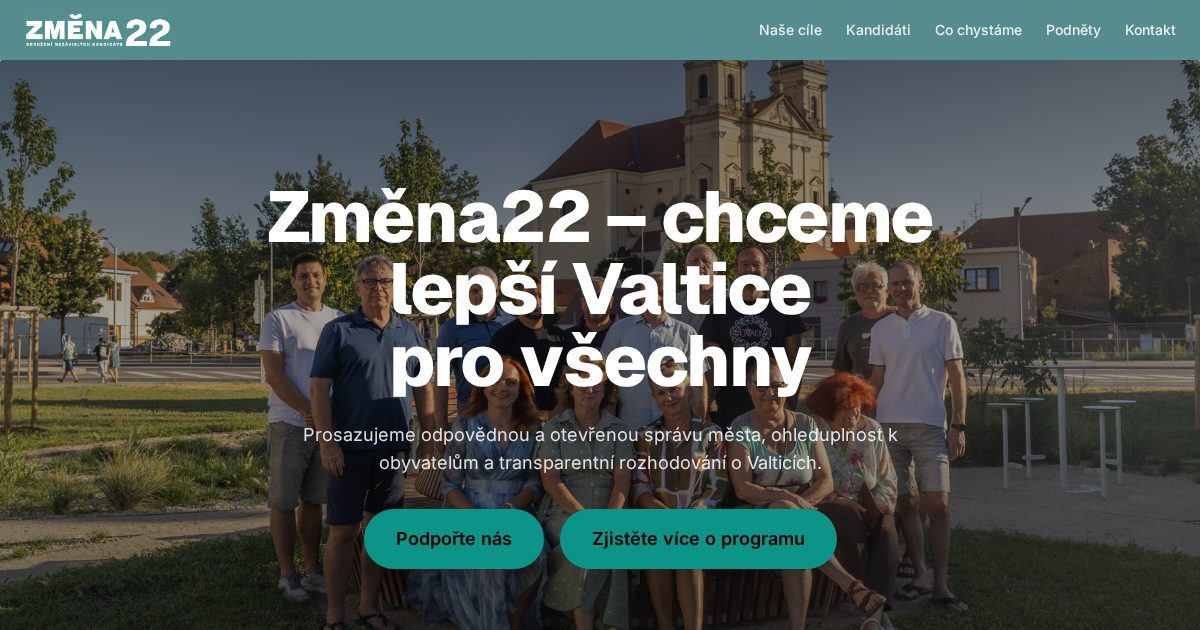
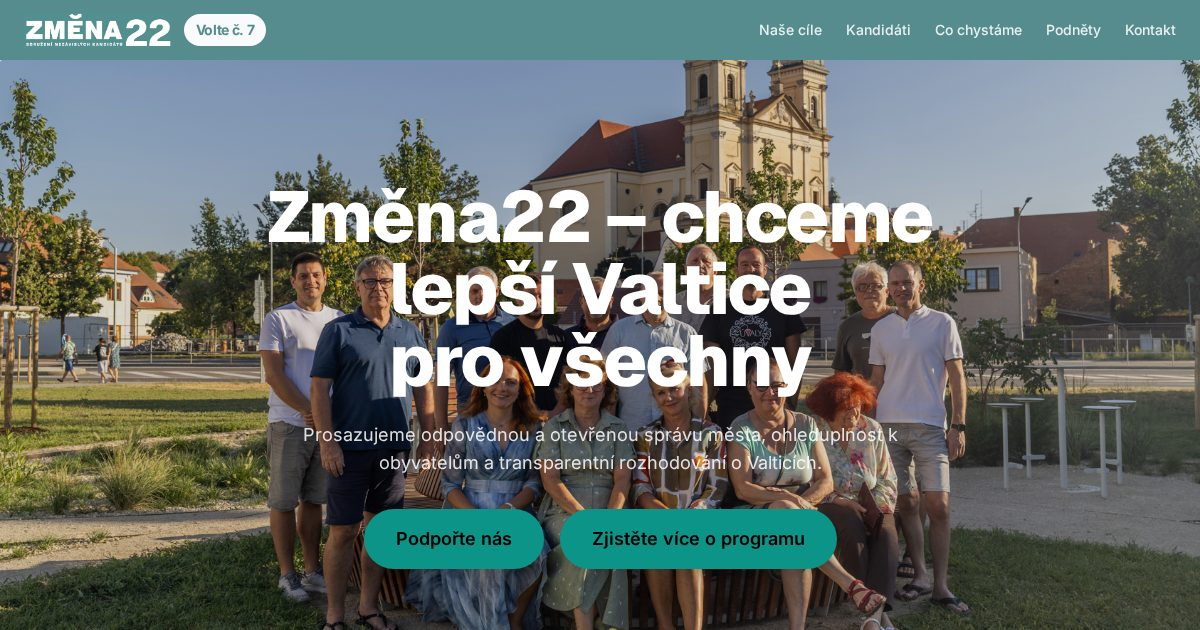
Deploy website: Změna22 Valtice

diff --git a/index.html b/index.html
@@ -8,10 +8,14 @@
     <meta property="og:description" content="Vytvoř webovou stránku pro kampaň Změna22 ve Valticích. Web má obsahovat: 1) úvodní hero sekci se společnou stock fotografií týmu jako dočasným zástupným obrázkem, hlavním textem a výzvou; 2) sekci „Naše cíle / program“ s hlavními prioritami a plánovanými změnami; 3) sekci „Kandidáti“ s profilovými kartami kandidátů a zástupnými stock fotografiemi, které bude možné později vyměnit za skutečné fotografie; 4) sekci „Co chystáme“ s připravovanými kroky, projekty a aktivitami; 5) sekci „Co už se nám povedlo“ s dosavadními výsledky a konkrétními úspěchy; 6) samostatný formulář „Podněty od návštěvníků“ před kontaktním formulářem, umožňující odeslat nápad, připomínku nebo problém ve městě, s poli Jméno (nepovinné), E-mail (nepovinný), Téma podnětu, Popis podnětu, Lokalita nebo ulice (nepovinné) a možností přiložit fotografii; u formuláře použij text „Máte nápad nebo připomínku? Napište nám, co by podle vás ve Valticích mělo fungovat lépe. Každý podnět si přečteme a pomůže nám lépe hájit potřeby našeho města.“; 7) závěrečný kontaktní formulář s heslem „Pomozte nám změnit naše město“. Použij výrazný tyrkysovo-petrolejový vizuální styl inspirovaný plakátem kampaně a zajisti, aby šlo později snadno nahradit stock fotografie skutečnými podklady." />
     <meta property="og:type" content="website" />
     <meta property="og:locale" content="cs" />
-    <meta name="twitter:card" content="summary" />
+    <meta property="og:url" content="https://zmena22-valtice.netlify.app" />
+    <meta property="og:image" content="https://zmena22-valtice.netlify.app/og-image.jpg" />
+    <meta name="twitter:card" content="summary_large_image" />
     <meta name="twitter:title" content="Změna22 Valtice" />
     <meta name="twitter:description" content="Vytvoř webovou stránku pro kampaň Změna22 ve Valticích. Web má obsahovat: 1) úvodní hero sekci se společnou stock fotografií týmu jako dočasným zástupným obrázkem, hlavním textem a výzvou; 2) sekci „Naše cíle / program“ s hlavními prioritami a plánovanými změnami; 3) sekci „Kandidáti“ s profilovými kartami kandidátů a zástupnými stock fotografiemi, které bude možné později vyměnit za skutečné fotografie; 4) sekci „Co chystáme“ s připravovanými kroky, projekty a aktivitami; 5) sekci „Co už se nám povedlo“ s dosavadními výsledky a konkrétními úspěchy; 6) samostatný formulář „Podněty od návštěvníků“ před kontaktním formulářem, umožňující odeslat nápad, připomínku nebo problém ve městě, s poli Jméno (nepovinné), E-mail (nepovinný), Téma podnětu, Popis podnětu, Lokalita nebo ulice (nepovinné) a možností přiložit fotografii; u formuláře použij text „Máte nápad nebo připomínku? Napište nám, co by podle vás ve Valticích mělo fungovat lépe. Každý podnět si přečteme a pomůže nám lépe hájit potřeby našeho města.“; 7) závěrečný kontaktní formulář s heslem „Pomozte nám změnit naše město“. Použij výrazný tyrkysovo-petrolejový vizuální styl inspirovaný plakátem kampaně a zajisti, aby šlo později snadno nahradit stock fotografie skutečnými podklady." />
-    <script type="application/ld+json">{"@context":"https://schema.org","@graph":[{"@type":"Organization","name":"Změna22 Valtice"}]}</script>
+    <meta name="twitter:image" content="https://zmena22-valtice.netlify.app/og-image.jpg" />
+    <link rel="canonical" href="https://zmena22-valtice.netlify.app" />
+    <script type="application/ld+json">{"@context":"https://schema.org","@graph":[{"@type":"Organization","name":"Změna22 Valtice","url":"https://zmena22-valtice.netlify.app","logo":"https://zmena22-valtice.netlify.app/images/logo-1.png"}]}</script>
     <title>Změna22 Valtice</title>
     <link rel="stylesheet" href="/assets/utilities.css" />
     <link rel="stylesheet" href="/styles.css" />
@@ -20,7 +24,7 @@
     <div class="jean-site-shell" data-jean-motion="off" style="min-height:100vh;display:flex;flex-direction:column">
     <header class="sticky top-0 z-50" style="background-color:#568c8e;border-bottom:none;color:rgba(255,255,255,0.87);--color-text:rgba(255,255,255,0.87);--color-heading:#ffffff;--color-muted:rgba(255,255,255,0.64);--color-surface:rgba(255,255,255,0.08);--color-surface-tint:rgba(255,255,255,0.1);--color-surface-strong:rgba(255,255,255,0.14);--color-card:rgba(255,255,255,0.08);--color-card-strong:rgba(255,255,255,0.12);--color-line:rgba(255,255,255,0.14);--color-line-strong:rgba(255,255,255,0.24);--color-nav:rgba(255,255,255,0.08);--color-nav-border:rgba(255,255,255,0.16);--color-image-placeholder:rgba(255,255,255,0.08)" id="section_header" data-section-id="section_header" data-section-type="header">
       <div class="max-w-7xl mx-auto px-6 py-3 flex items-center justify-between gap-8">
-        <span class="inline-flex items-center gap-2.5 flex-shrink-0"><img src="/images/logo-1.png" alt="ZMĚNA 22" class="h-9 w-auto object-contain flex-shrink-0"></span>
+        <span class="inline-flex items-center gap-3 flex-shrink-0"><span class="inline-flex items-center gap-2.5 flex-shrink-0"><img src="/images/logo-1.png" alt="ZMĚNA 22" class="h-9 w-auto object-contain flex-shrink-0"></span><span class="inline-flex items-center whitespace-nowrap flex-shrink-0 px-3 py-1.5 text-sm font-bold tracking-tight rounded-full" data-block-id="b_a600ef4f2f104385ab4fab18" data-block-type="badge" style="background-color:#F8FAFC;color:#568c8e">Volte č. 7</span></span>
         <nav class="hidden md:flex gap-6" data-block-id="block_main_nav" data-block-type="nav_links">
           <a href="#section_nase_cile" class="text-sm font-medium hover:opacity-70 transition-opacity" style="color:var(--color-text)">Naše cíle</a>
           <a href="#section_kandidati" class="text-sm font-medium hover:opacity-70 transition-opacity" style="color:var(--color-text)">Kandidáti</a>
@@ -29,17 +33,25 @@
           <a href="#section_kontakt" class="text-sm font-medium hover:opacity-70 transition-opacity" style="color:var(--color-text)">Kontakt</a>
         </nav>
         
+        <button type="button" aria-expanded="false" aria-controls="jean-header-menu" aria-label="Menu" class="md:hidden inline-flex flex-col justify-center items-center gap-1.5 w-11 h-11 -mr-2 flex-shrink-0 cursor-pointer bg-transparent border-0">
+          <span style="width:20px;height:2px;background-color:var(--color-text);display:block;transition:transform .2s;transform:none"></span>
+          <span style="width:20px;height:2px;background-color:var(--color-text);display:block;opacity:1;transition:opacity .2s"></span>
+          <span style="width:20px;height:2px;background-color:var(--color-text);display:block;transition:transform .2s;transform:none"></span>
+        </button>
       </div>
+      
     </header>
-    <section class="jean-scroll-stage jean-bg-fixed min-h-screen flex items-center relative overflow-hidden" data-jean-parallax-root="hero" style="background-color:#f8fafc;background-image:url(&quot;/images/tiles-1.png&quot;);background-size:cover;background-position:center center;background-repeat:no-repeat;border-radius:0.125rem" id="section_hero" data-section-id="section_hero" data-section-type="hero">
-      <div class="absolute inset-0" aria-hidden="true" style="background:linear-gradient(180deg, rgba(10,10,10,0.58) 0%, rgba(10,10,10,0.35) 45%, rgba(10,10,10,0.62) 100%)"></div>
+    <section class="jean-scroll-stage jean-bg-fixed min-h-screen flex items-center relative overflow-hidden" data-jean-parallax-root="hero" style="background-color:rgba(0,0,0,0.15);background-image:linear-gradient(180deg, rgba(0,0,0,0.15) 0%, rgba(0,0,0,0.15) 100%), url(&quot;/images/tiles-1.png&quot;);background-size:cover;background-position:center center;background-repeat:no-repeat;border-radius:0.125rem" id="section_hero" data-section-id="section_hero" data-section-type="hero">
       <div class="relative z-10 w-full">
-        <div class="max-w-4xl mx-auto px-6 text-center jean-motion-layer jean-parallax-subtle" data-jean-reveal="true">
+        <div class="max-w-4xl mx-auto px-6 text-center jean-motion-layer jean-parallax-subtle relative" data-jean-reveal="true">
+          
+          <div class="relative">
           
           <h1 class="text-5xl lg:text-8xl tracking-tight" data-block-id="block_hero_heading" data-block-type="text.heading" style="color:#FFFFFF;font-family:var(--font-heading);font-weight:800;font-size:clamp(3rem, 2rem + 3.4vw, 4.5rem)">Změna22 – chceme lepší Valtice pro všechny</h1>
           <p class="mt-6 text-lg max-w-2xl mx-auto" data-block-id="block_hero_text" data-block-type="text.paragraph" style="color:rgba(255,255,255,0.86);font-family:var(--font-body);font-weight:400">Prosazujeme odpovědnou a otevřenou správu města, ohleduplnost k obyvatelům a transparentní rozhodování o Valticích.</p>
           <div class="mt-8 flex flex-row flex-wrap items-center justify-center gap-4"><a href="#section_nase_cile" class="jean-float inline-block px-8 py-4 font-semibold text-lg shadow-xl" style="border-radius:9999px;color:var(--color-on-primary, #fff);background-color:var(--color-primary);border:none">Podpořte nás</a><a href="#section_kontakt" class="jean-float inline-block px-8 py-4 font-semibold text-lg shadow-xl" style="border-radius:9999px;color:var(--color-on-primary, #fff);background-color:var(--color-primary);border:none">Zjistěte více o programu</a></div>
           
+          </div>
         </div>
       </div>
     </section>

diff --git a/assets/utilities.css b/assets/utilities.css
@@ -190,17 +190,11 @@
   }
 }
 @layer utilities {
-  .absolute {
-    position: absolute;
-  }
   .relative {
     position: relative;
   }
   .sticky {
     position: sticky;
-  }
-  .inset-0 {
-    inset: 0px;
   }
   .top-0 {
     top: 0px;
@@ -225,6 +219,9 @@
   }
   .mt-auto {
     margin-top: auto;
+  }
+  .-mr-2 {
+    margin-right: calc(var(--spacing) * -2);
   }
   .mb-2 {
     margin-bottom: calc(var(--spacing) * 2);
@@ -277,6 +274,9 @@
   .w-10 {
     width: calc(var(--spacing) * 10);
   }
+  .w-11 {
+    width: calc(var(--spacing) * 11);
+  }
   .w-auto {
     width: auto;
   }
@@ -300,6 +300,9 @@
   }
   .flex-shrink-0 {
     flex-shrink: 0;
+  }
+  .cursor-pointer {
+    cursor: pointer;
   }
   .resize-none {
     resize: none;
@@ -333,6 +336,9 @@
   }
   .gap-1 {
     gap: var(--spacing);
+  }
+  .gap-1\.5 {
+    gap: calc(var(--spacing) * 1.5);
   }
   .gap-2\.5 {
     gap: calc(var(--spacing) * 2.5);
@@ -371,6 +377,13 @@
     border-style: var(--tw-border-style);
     border-width: 1px;
   }
+  .border-0 {
+    border-style: var(--tw-border-style);
+    border-width: 0px;
+  }
+  .bg-transparent {
+    background-color: transparent;
+  }
   .object-contain {
     object-fit: contain;
   }
@@ -383,6 +396,9 @@
   .p-8 {
     padding: calc(var(--spacing) * 8);
   }
+  .px-3 {
+    padding-inline: calc(var(--spacing) * 3);
+  }
   .px-4 {
     padding-inline: calc(var(--spacing) * 4);
   }
@@ -391,6 +407,9 @@
   }
   .px-8 {
     padding-inline: calc(var(--spacing) * 8);
+  }
+  .py-1\.5 {
+    padding-block: calc(var(--spacing) * 1.5);
   }
   .py-2\.5 {
     padding-block: calc(var(--spacing) * 2.5);
@@ -449,6 +468,9 @@
     --tw-tracking: var(--tracking-tight);
     letter-spacing: var(--tracking-tight);
   }
+  .whitespace-nowrap {
+    white-space: nowrap;
+  }
   .shadow-xl {
     --tw-shadow: 0 20px 25px -5px var(--tw-shadow-color, rgb(0 0 0 / 0.1)), 0 8px 10px -6px var(--tw-shadow-color, rgb(0 0 0 / 0.1));
     box-shadow: var(--tw-inset-shadow), var(--tw-inset-ring-shadow), var(--tw-ring-offset-shadow), var(--tw-ring-shadow), var(--tw-shadow);
@@ -473,6 +495,9 @@
   @media (width >= 48rem) {
     .md\:flex {
       display: flex;
+    }
+    .md\:hidden {
+      display: none;
     }
     .md\:grid-cols-2 {
       grid-template-columns: repeat(2, minmax(0, 1fr));
